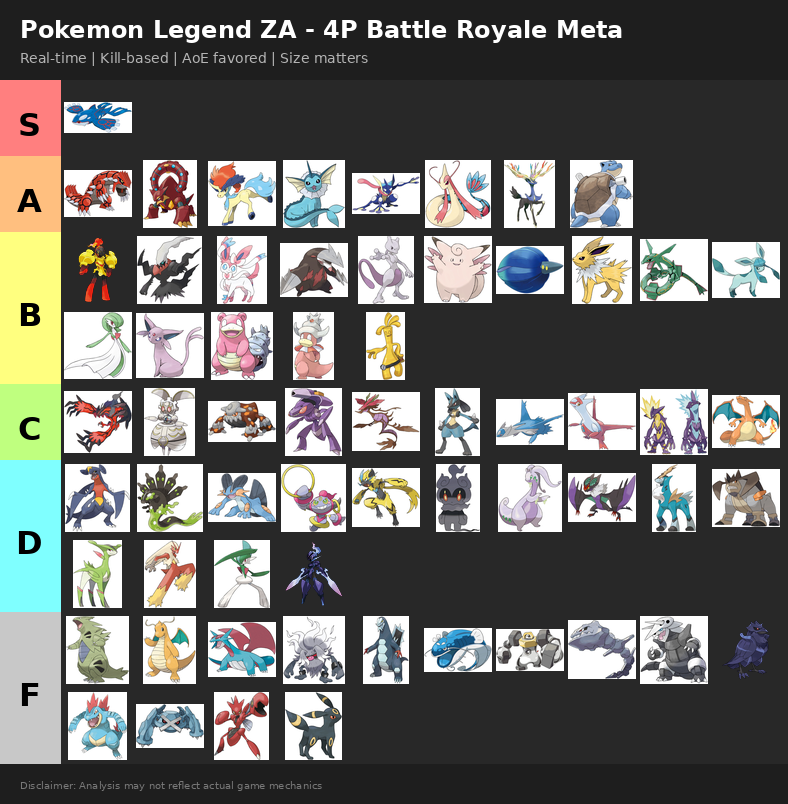
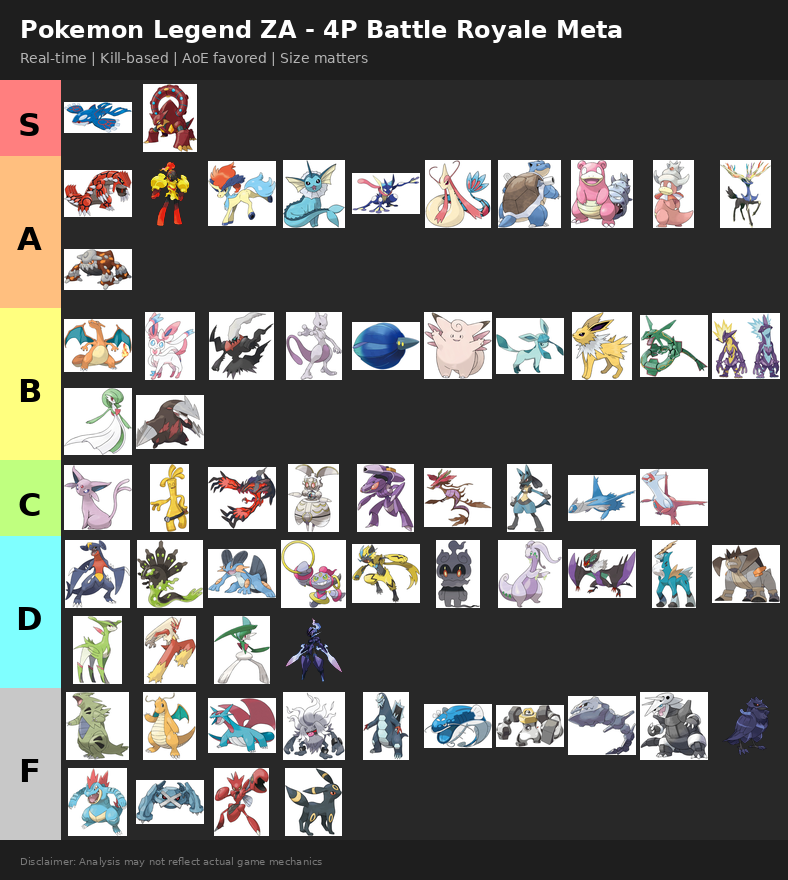
AoE size scales with power, fix ability notes
- Higher power AoE = larger radius (Eruption = huge)
- Volcanion/Armarouge rise due to Eruption access
- Remove references to abilities that don't work (Water Absorb, Levitate)

diff --git a/tierlist_generator.py b/tierlist_generator.py
@@ -9,12 +9,12 @@ import os
 import csv
 
 # Tier list configuration (based on meta_analyzer.py output)
-# Updated with: Berries counter 4x weakness once, Rayquaza Delta Stream
+# Updated with: AoE size scales with power (Eruption = huge radius)
 TIERS = {
-    "S": {"color": (255, 127, 127), "pokemon": ["kyogre"]},
-    "A": {"color": (255, 191, 127), "pokemon": ["groudon", "volcanion", "keldeo", "vaporeon", "greninja", "milotic", "xerneas", "blastoise"]},
-    "B": {"color": (255, 255, 127), "pokemon": ["armarouge", "darkrai", "sylveon", "excadrill", "mewtwo", "clefable", "glimmora", "jolteon", "rayquaza", "glaceon", "gardevoir", "espeon", "slowbro", "slowking", "gholdengo"]},
-    "C": {"color": (191, 255, 127), "pokemon": ["yveltal", "magearna", "heatran", "genesect", "dragalge", "lucario", "latios", "latias", "toxtricity", "charizard"]},
+    "S": {"color": (255, 127, 127), "pokemon": ["kyogre", "volcanion"]},
+    "A": {"color": (255, 191, 127), "pokemon": ["groudon", "armarouge", "keldeo", "vaporeon", "greninja", "milotic", "blastoise", "slowbro", "slowking", "xerneas", "heatran"]},
+    "B": {"color": (255, 255, 127), "pokemon": ["charizard", "sylveon", "darkrai", "mewtwo", "glimmora", "clefable", "glaceon", "jolteon", "rayquaza", "toxtricity", "gardevoir", "excadrill"]},
+    "C": {"color": (191, 255, 127), "pokemon": ["espeon", "gholdengo", "yveltal", "magearna", "genesect", "dragalge", "lucario", "latios", "latias"]},
     "D": {"color": (127, 255, 255), "pokemon": ["garchomp", "zygarde", "swampert", "hoopa", "zeraora", "marshadow", "goodra", "noivern", "cobalion", "terrakion", "virizion", "blaziken", "gallade", "ceruledge"]},
     "F": {"color": (200, 200, 200), "pokemon": ["tyranitar", "dragonite", "salamence", "annihilape", "baxcalibur", "dondozo", "melmetal", "steelix", "aggron", "corviknight", "feraligatr", "metagross", "scizor", "umbreon"]},
 }

diff --git a/meta_analyzer.py b/meta_analyzer.py
@@ -48,6 +48,11 @@ SPECIAL_SAFETY_MULT = 1.0
 BASE_POWER = 80
 POWER_CAST_PENALTY = 0.005  # 0.5% slower per power point above 80
 
+# AoE Size vs Power
+# Higher power AoE = larger radius = easier to hit multiple targets
+# But also slower cast = can be dodged
+AOE_SIZE_SCALING = 0.01  # 1% larger AoE per power point above base
+
 # =============================================================================
 # POKEMON SIZE (affects movement speed - larger = slower, easier to hit)
 # =============================================================================
@@ -441,16 +446,26 @@ def get_best_moves(pokemon_types, is_physical):
     best_moves = []
 
     def calc_effective_power(power, is_aoe, is_multi_hit, is_stab):
-        """Calculate effective power considering cast time penalty"""
+        """Calculate effective power considering cast time penalty and AoE size scaling"""
         eff_power = power
 
         # STAB bonus
         if is_stab:
             eff_power *= 1.5
 
-        # AoE bonus (can hit 3 enemies)
+        # AoE calculation with size scaling
         if is_aoe:
-            eff_power *= 1.3
+            # Base AoE bonus (can hit 3 enemies)
+            aoe_bonus = 1.3
+            # Higher power = larger AoE radius = easier to hit
+            if power > BASE_POWER:
+                aoe_size_bonus = 1.0 + (power - BASE_POWER) * AOE_SIZE_SCALING
+                aoe_bonus *= min(1.5, aoe_size_bonus)  # Cap at 50% extra
+            elif power < BASE_POWER:
+                # Smaller AoE = harder to hit multiple targets
+                aoe_size_penalty = 1.0 - (BASE_POWER - power) * 0.005
+                aoe_bonus *= max(0.8, aoe_size_penalty)
+            eff_power *= aoe_bonus
 
         # Multi-hit penalty (can be dodged between hits)
         if is_multi_hit:

diff --git a/teams.md b/teams.md
@@ -160,12 +160,14 @@ Based on meta analysis considering: AoE potential, size, range safety, burst dam
 
 | If opponent has... | Counter with... |
 |--------------------|-----------------|
-| Water spam | Vaporeon (absorb), Grass coverage |
+| Water spam | Grass coverage, Electric types |
 | Dragon spam | Sylveon, Xerneas, any Fairy |
-| Ground spam | Flying types, Levitate (if allowed) |
+| Ground spam | Flying types (immune to EQ) |
 | Kyogre | Grass coverage, Rindo Berry |
 | Groudon | Water AoE (Kyogre hard counters) |
 | Rayquaza | Fairy types (Delta Stream doesn't help vs Fairy) |
+
+**Note**: Abilities like Water Absorb, Levitate do NOT work in this game (except Rayquaza's Delta Stream from item/innate).
 
 ---
 
